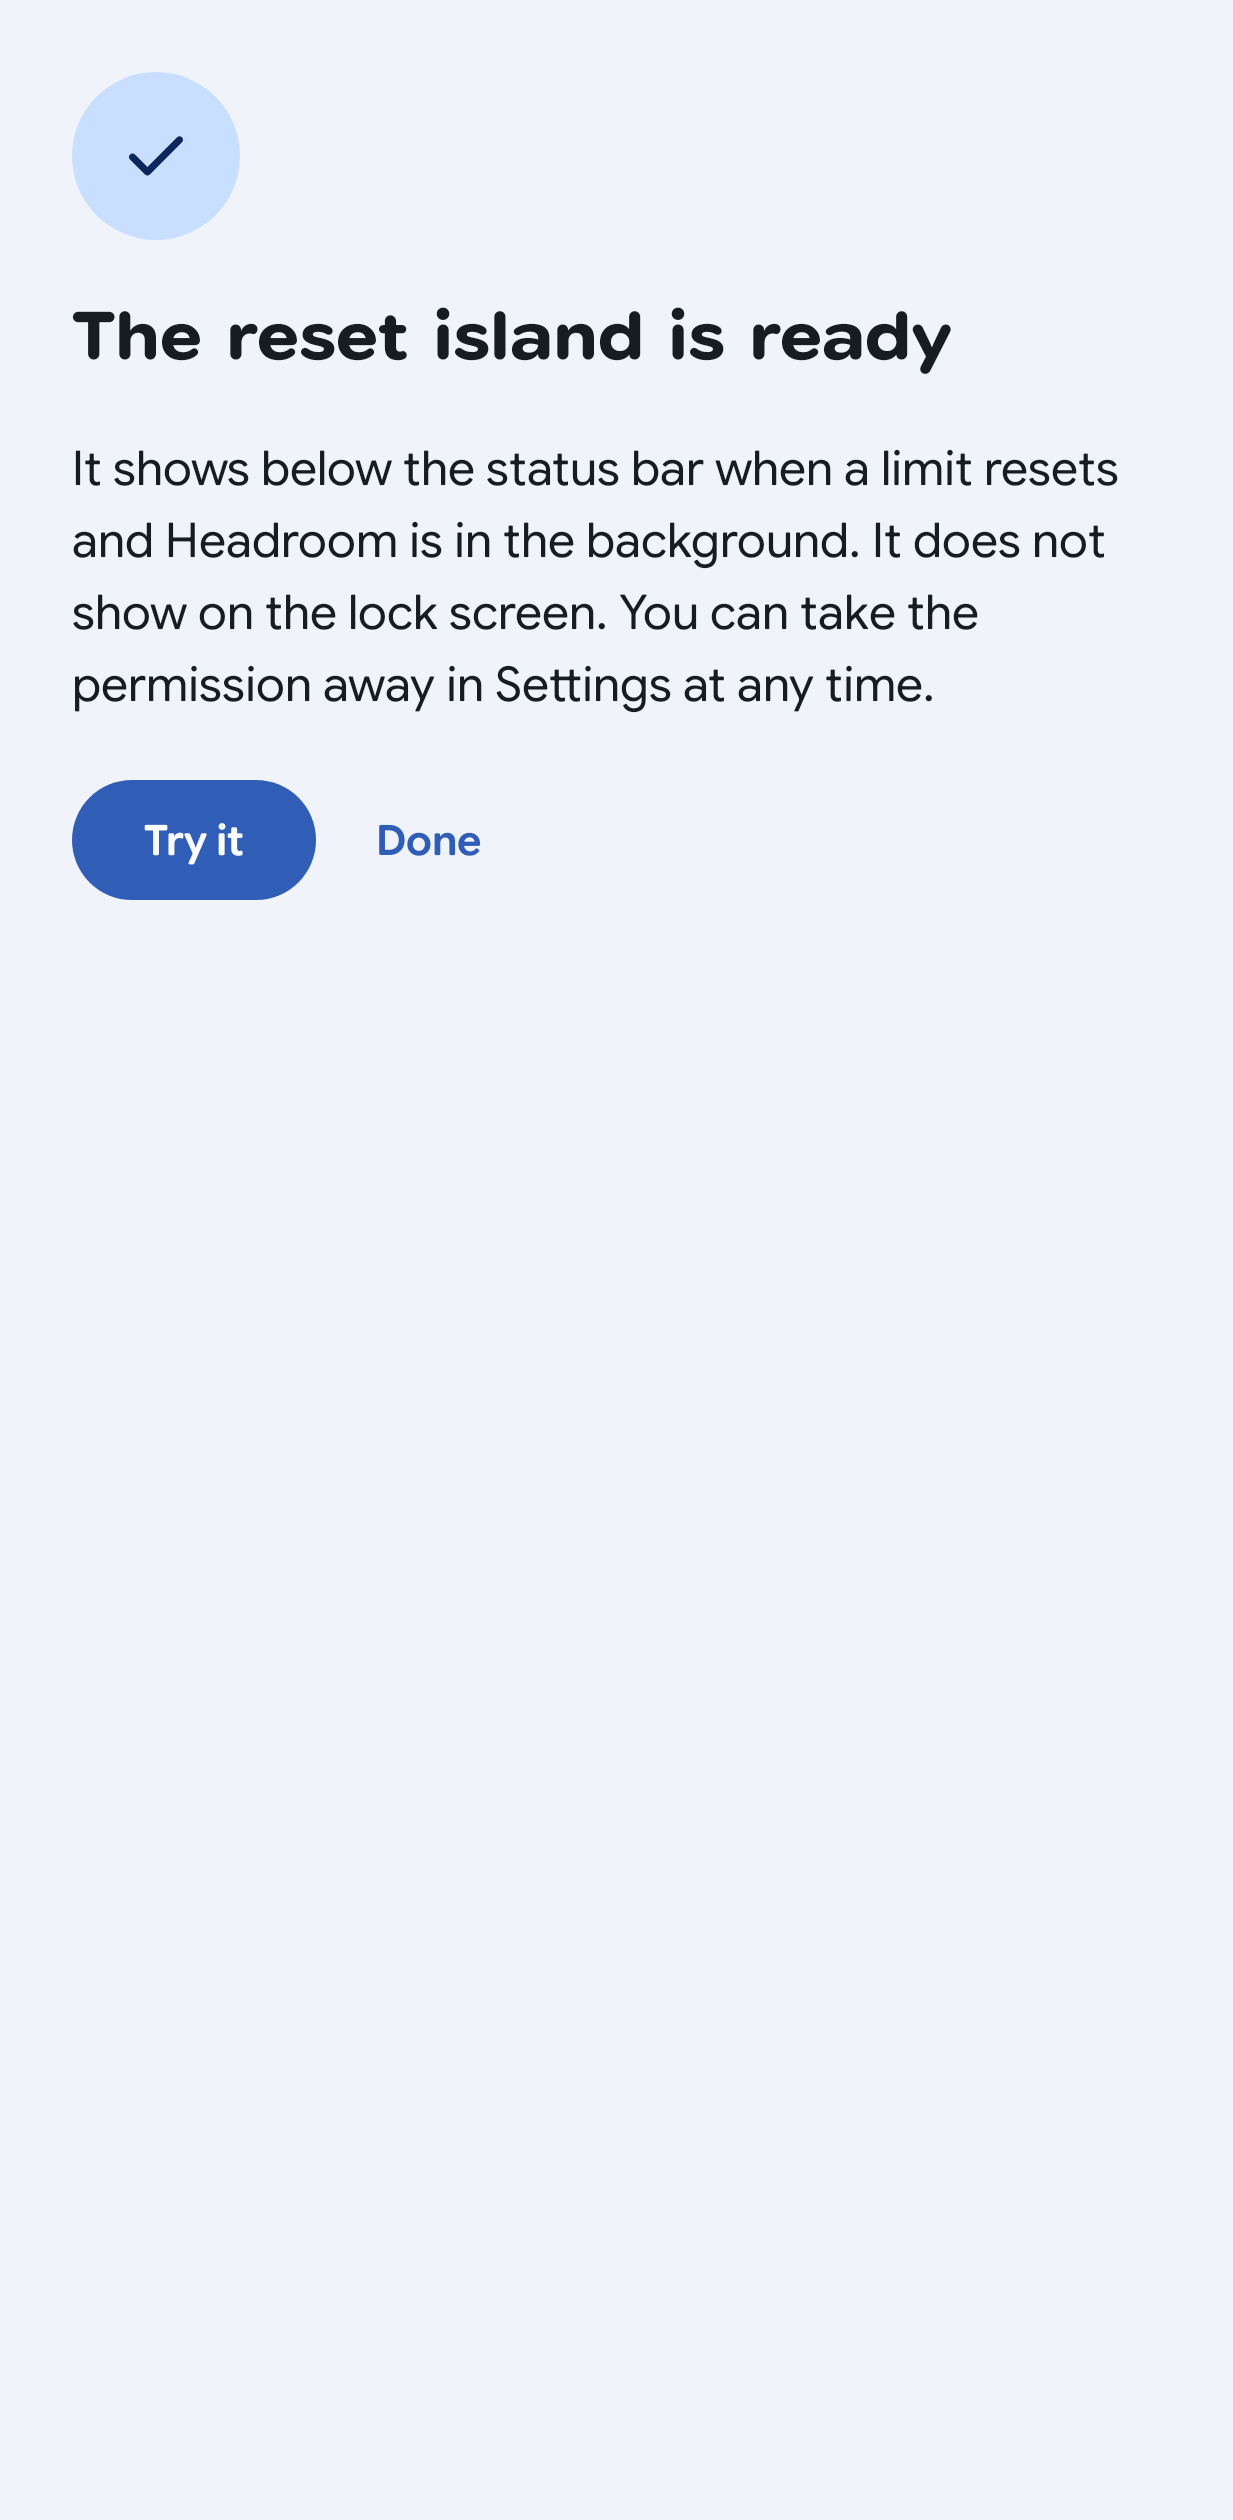
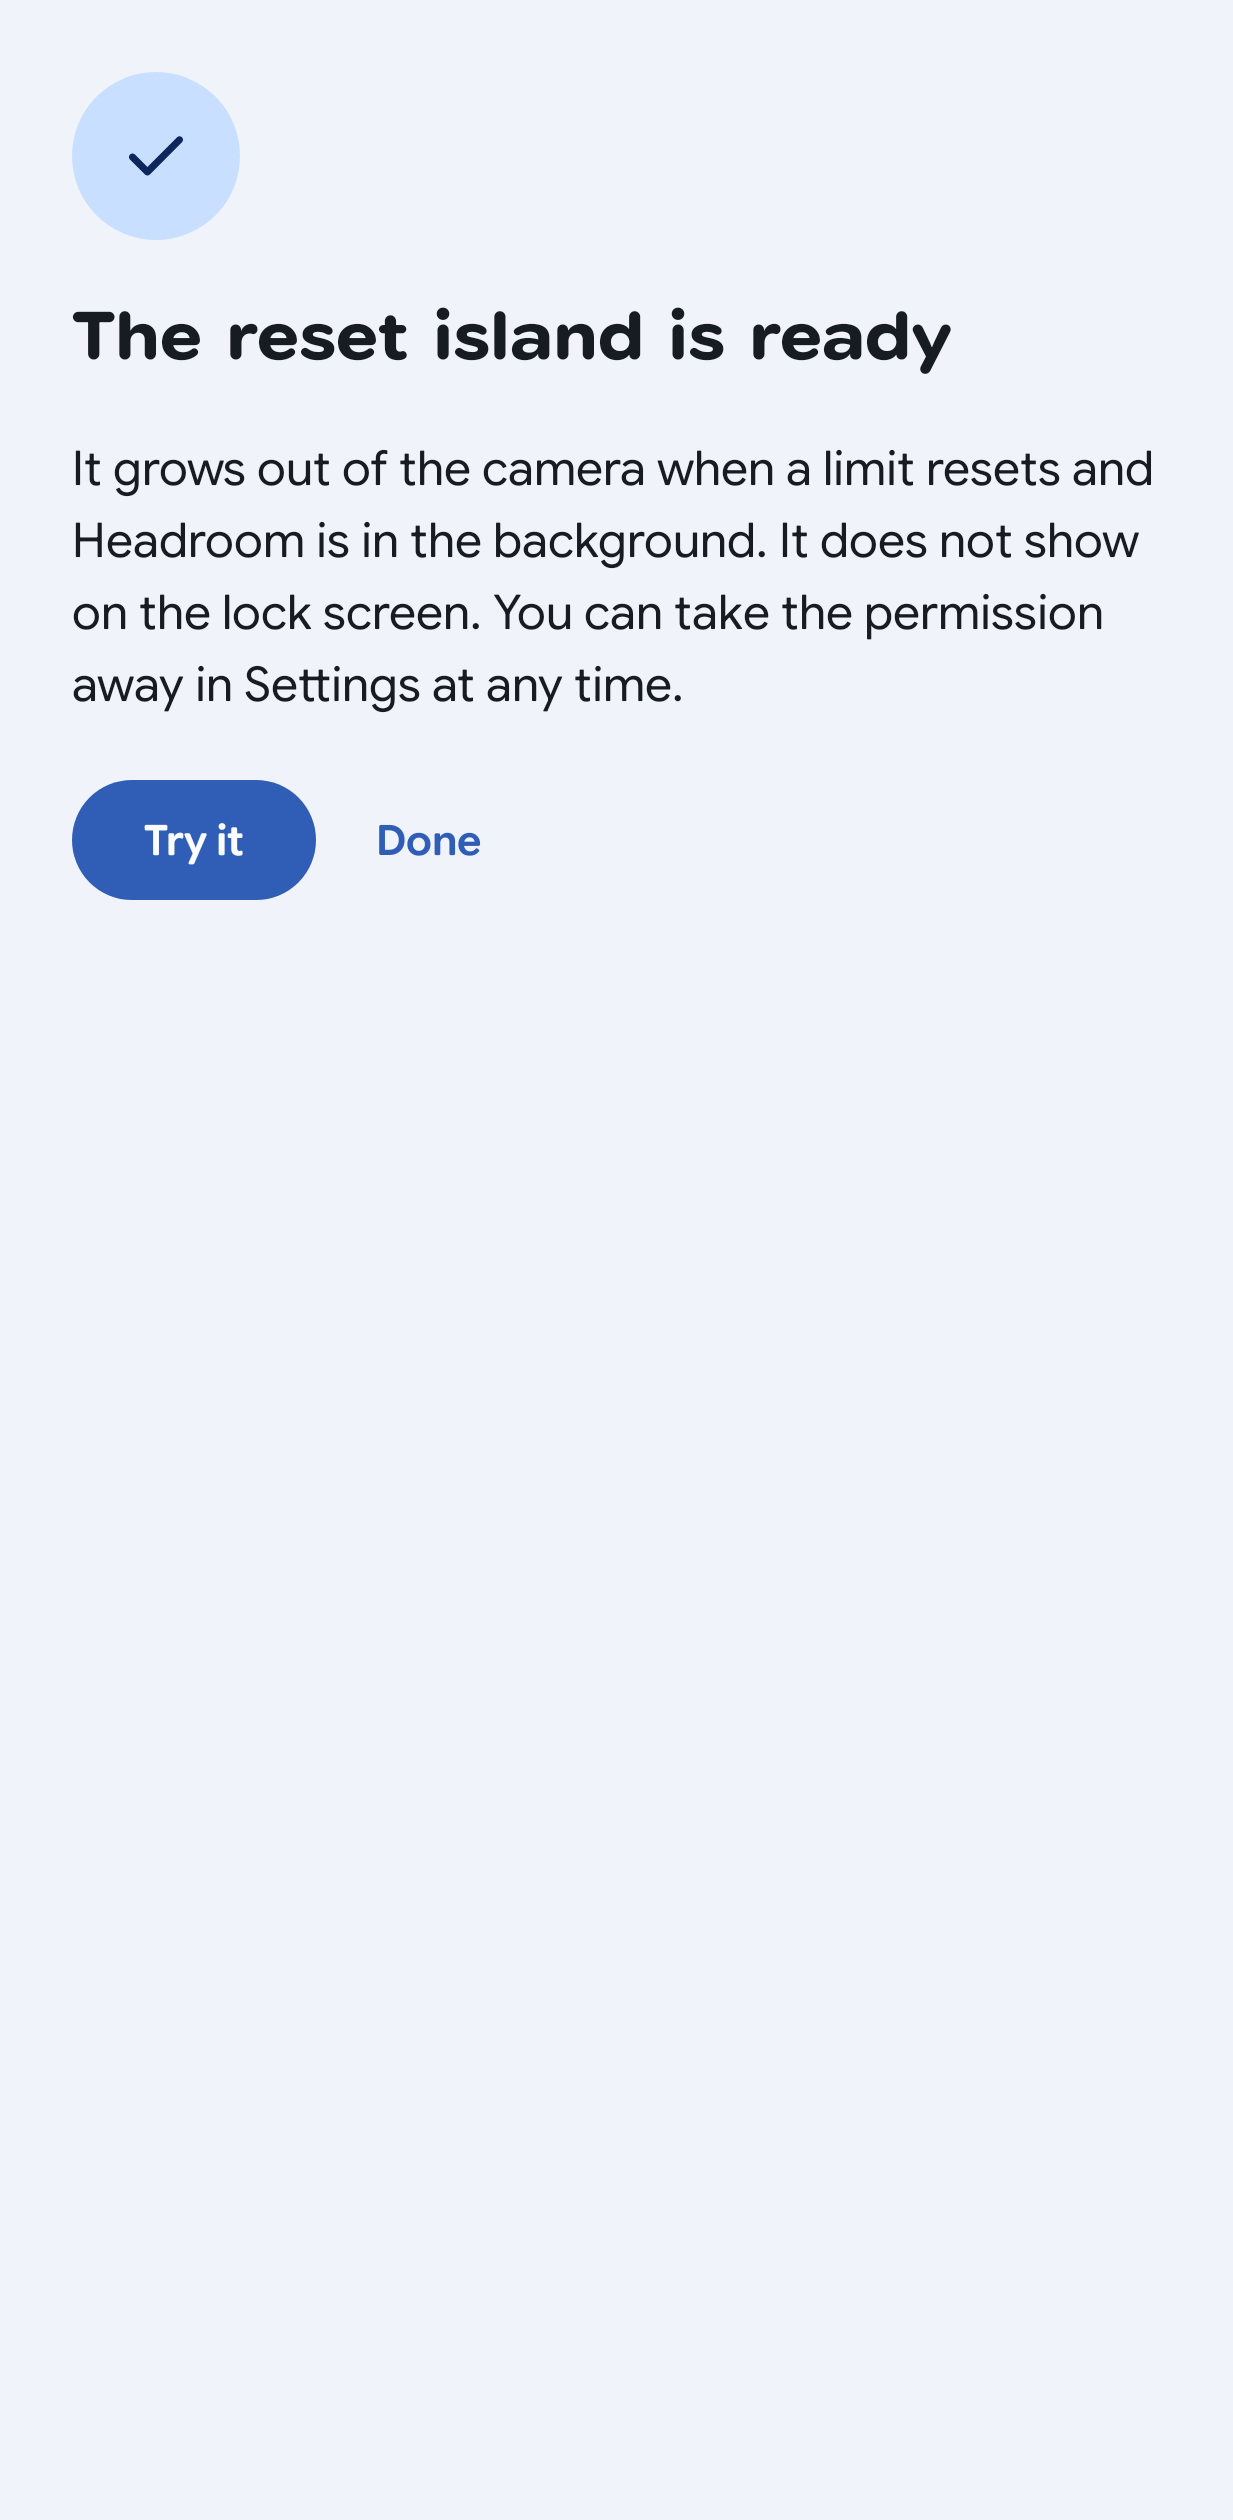
Describe where the overlay island shows now

Changed region(s): [[0.0616, 0.1548, 0.9246, 0.2786]]

diff --git a/app/src/test/kotlin/dev/sebastiano/headroom/ui/ResetIslandSettingsTest.kt b/app/src/test/kotlin/dev/sebastiano/headroom/ui/ResetIslandSettingsTest.kt
@@ -267,7 +267,7 @@ class ResetIslandSettingsTest {
         rule.onNodeWithTag(RESET_ISLAND_TAG).performClick()
 
         rule
-            .onNodeWithText("The pill shows below the status bar", substring = true)
+            .onNodeWithText("The status bar icons can show on top of the pill", substring = true)
             .performScrollTo()
             .assertIsDisplayed()
         rule
@@ -301,7 +301,7 @@ class ResetIslandSettingsTest {
         rule.waitForIdle()
 
         rule.onNodeWithText("The reset island is ready").assertIsDisplayed()
-        rule.onNodeWithText("It shows below the status bar", substring = true).assertIsDisplayed()
+        rule.onNodeWithText("It grows out of the camera", substring = true).assertIsDisplayed()
         rule.onNodeWithText("Allow display over other apps").assertDoesNotExist()
         rule.onNodeWithText("Try it").performClick()
         assertEquals(listOf(Provider.Claude to "Claude weekly limit reset"), island.demos)
